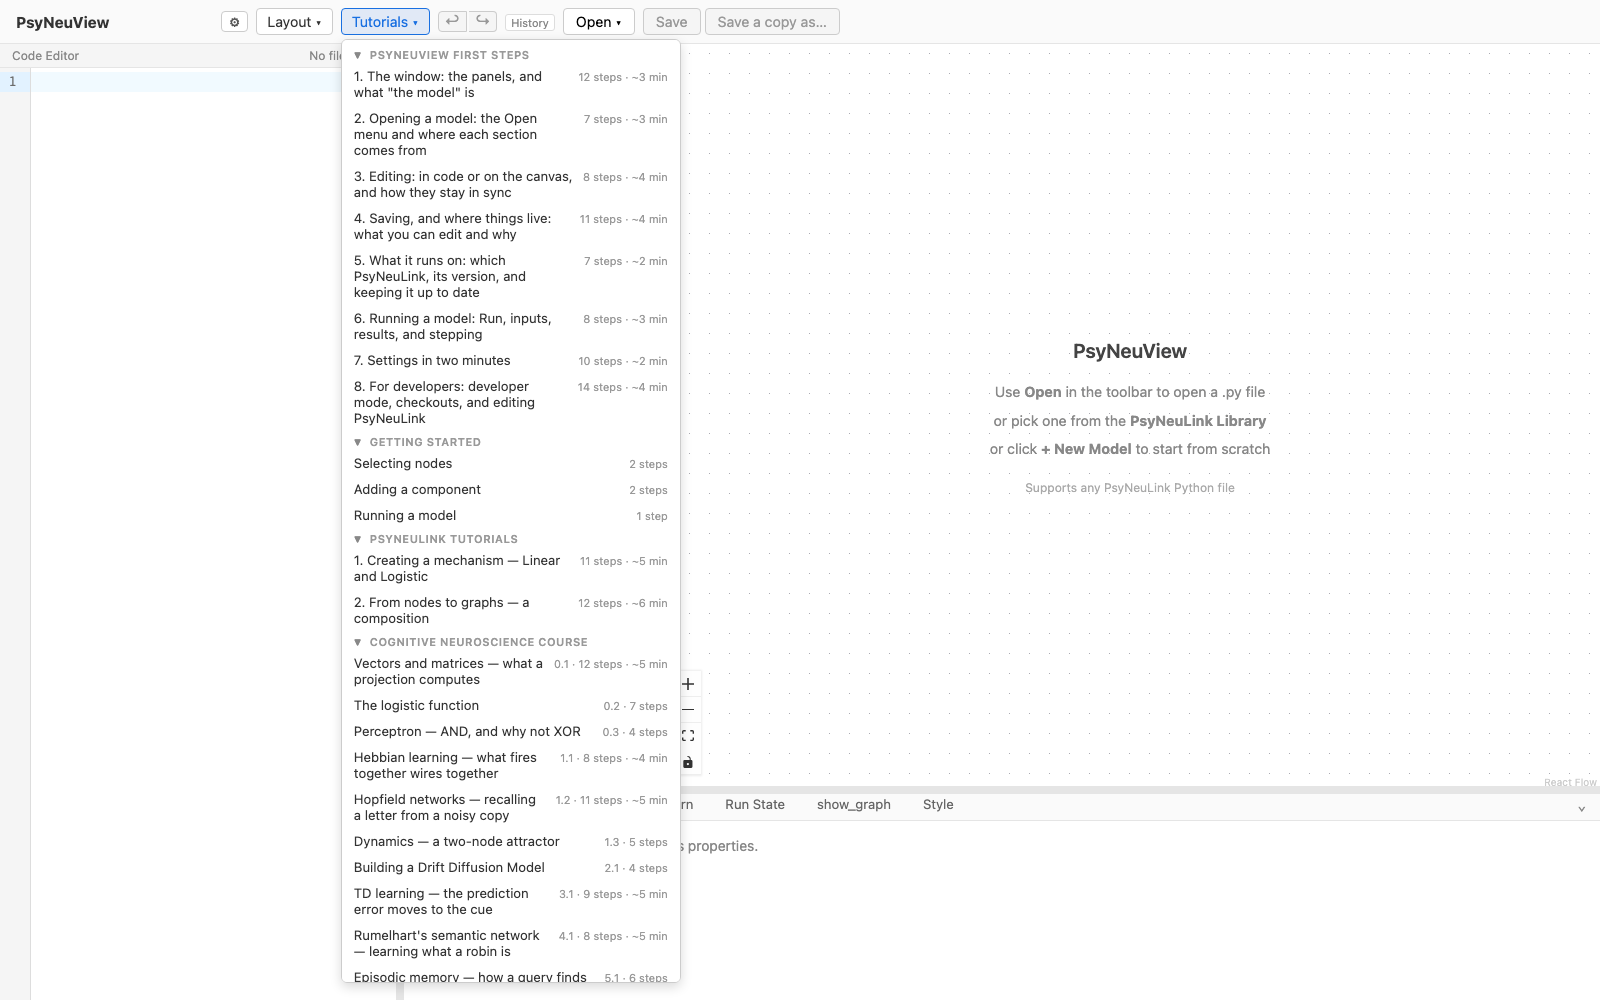
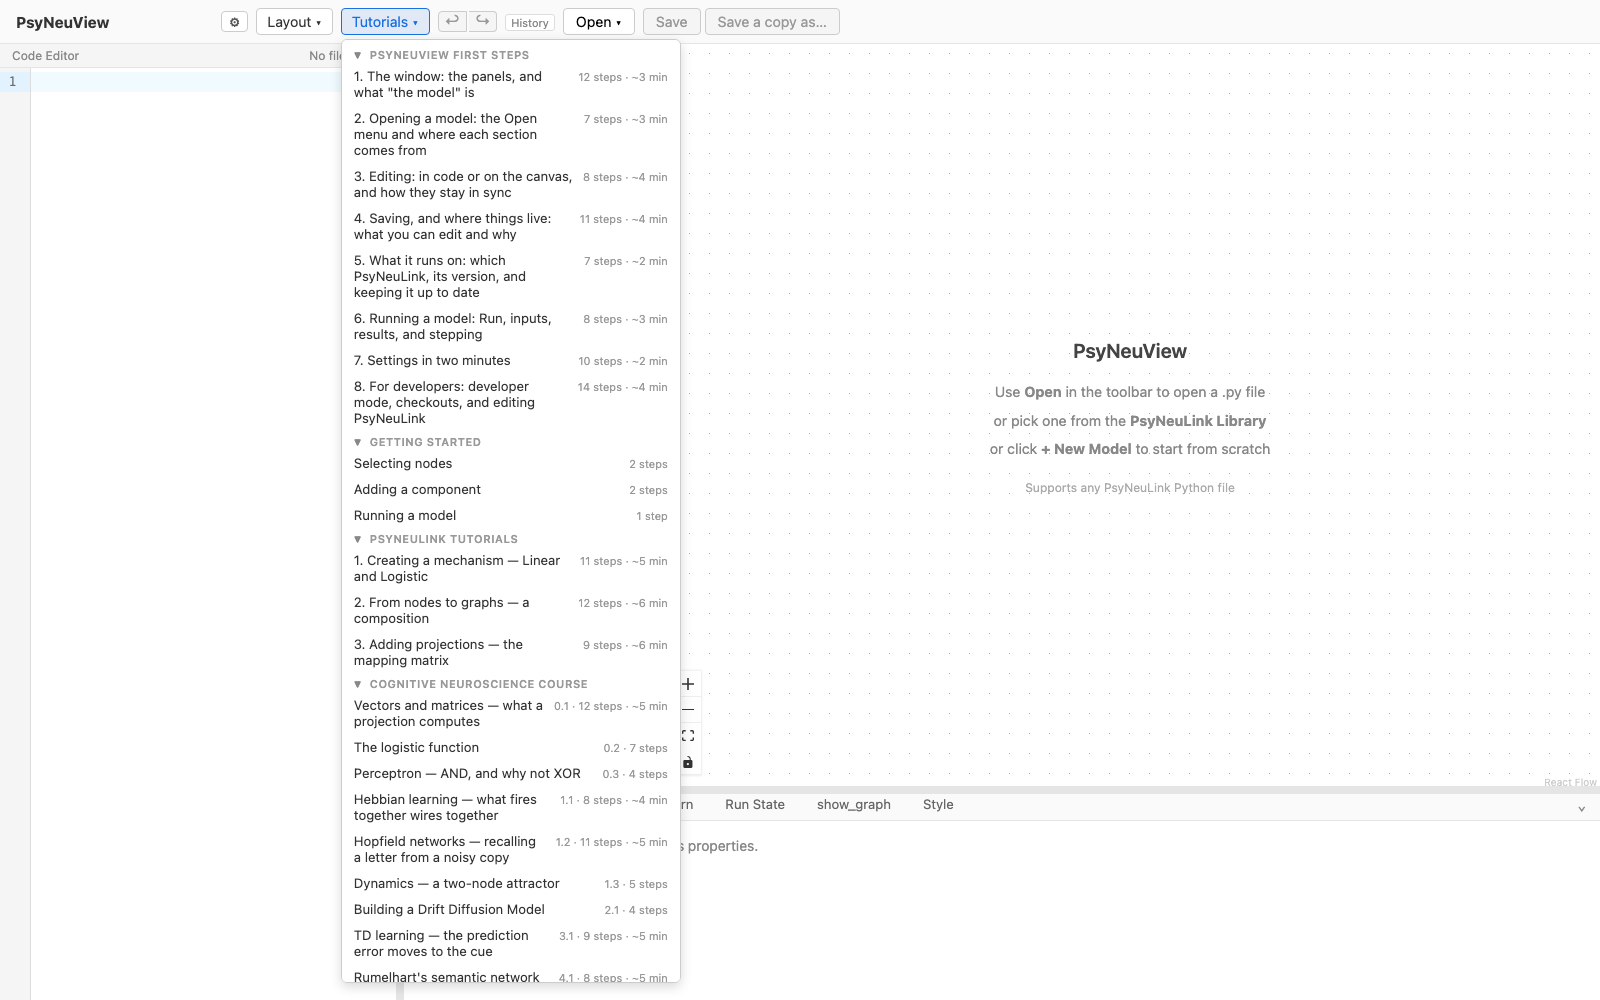
PsyNeuLink Tutorials, lesson 3: Adding projections — the mapping matrix (#9) (#142)
* Tutorials: lesson 3, Adding projections — the mapping matrix (#9)

The notebook's fourth section, built from New Model: input_node becomes
the notebook's Linear(slope=2, intercept=2) unit and output_node its
Logistic unit. Clicking the arrow shows the projection's matrix, [[1]],
the 1 by 1 identity the notebook's IDENTITY_MATRIX keyword means, and
the code is already the notebook's explicit MappingProjection with its
sender and receiver. A five-trial sweep from -3 to 3 gives 0.018, 0.269,
0.881, 0.993, 1.000 (the curve with its midpoint at -1, twice as steep).
The notebook keeps the matrix at 1, so to see the projection multiply
the lesson writes [[0.5]] under Projection Parameters (matrix= appears
in the code) and runs again: 0.119, 0.378, 0.731, 0.924, 0.982. All
measured in the app.

The last step says what stays in the notebook: the IDENTITY_MATRIX
keyword inside a pathway list, show_graph(), the 51-point plots, and the
units' names linear and logistic.

No new engine verbs: it uses paramEquals / setParameter on a projection
(#45), functionIs / setFunction, lastRunInputs and runsAtLeast.

Refs #9

* Tutorials e2e: drive the third PsyNeuLink lesson (#9)

Walks pnl-projections from its own YAML and asserts both sweeps on the
model's own results: through the identity matrix, 0.018, 0.2689, 0.8808,
0.9933, 0.99966; through the 0.5 matrix, 0.1192, 0.3775, 0.7311, 0.9241,
0.9820. Also checks that the matrix edit reached the source as
[…]

Changed region(s): [[0.2188, 0.62, 0.4375, 0.992], [0.375, 0.837, 0.4375, 0.899]]

diff --git a/frontend/e2e/tutorials/pnl-projections.tutorial.spec.ts b/frontend/e2e/tutorials/pnl-projections.tutorial.spec.ts
@@ -1,0 +1,96 @@
+/**
+ * PsyNeuLink Tutorials, lesson 3: Adding projections — the mapping matrix (#9).
+ *
+ * Driven from `src/walkthroughs/pnl-projections.yaml`, the file the app
+ * reads, so the walkthrough can't drift from the app. It builds from New
+ * Model: input_node becomes the notebook's Linear(slope=2, intercept=2) unit,
+ * output_node its Logistic unit, and the projection between them is looked
+ * at (the identity matrix, [[1]]), swept from -3 to 3, written as [[0.5]]
+ * under Projection Parameters, and swept again. This asserts every output
+ * the instructions quote, on the model's own run results, and that the
+ * matrix edit reached the code as the notebook's explicit `matrix=`.
+ *
+ * Also checks the Tutorials menu lists the lesson third under PsyNeuLink
+ * Tutorials.
+ */
+// mutatingTest: the walkthrough creates a model, so it needs a clean slate.
+import { mutatingTest as test, expect } from "../test-base";
+import { loadWalkthrough, runWalkthrough } from "../tourDriver";
+import { fileURLToPath } from "url";
+import path from "path";
+import { mkdirSync } from "fs";
+
+const ASSETS = path.resolve(
+  path.dirname(fileURLToPath(import.meta.url)),
+  "../../../docs/tutorials/assets/tour",
+);
+mkdirSync(ASSETS, { recursive: true });
+const shot = (name: string) => path.join(ASSETS, name);
+
+const lesson = loadWalkthrough("pnl-projections");
+
+test.use({ viewport: { width: 1600, height: 1000 } });
+
+test.describe(`PsyNeuLink Tutorials: ${lesson.title}`, () => {
+  test("is listed third under PsyNeuLink Tutorials", async ({ page }) => {
+    await page.goto("/");
+    await page.getByTestId("walkthrough-menu").click();
+    const section = page.getByTestId("walkthrough-menu-list").getByTestId("walkthrough-group-psyneulink");
+    await expect(section).toBeVisible();
+    const rows = await section
+      .locator('[data-testid^="walkthrough-pnl-"]')
+      .evaluateAll((els) => els.map((e) => e.textContent ?? ""));
+    expect(rows[2]).toContain(`3. ${lesson.title}`);
+  });
+
+  test("joins a Linear unit to a Logistic one, sweeps it, and writes the matrix", async ({ page }) => {
+    // Keep every run's outputs, one vector per trial: the canvas's value
+    // pill only shows while the trace sits on a trial, so it can't be read
+    // back after the walkthrough.
+    const runs: number[][][] = [];
+    // And the source after every Inspector edit, to see the matrix reach the
+    // code: the editor draws only the lines in view, so it can't be read whole.
+    let source = "";
+    page.on("response", async (r) => {
+      if (r.request().method() !== "POST" || !r.ok()) return;
+      if (r.url().includes("/api/model/run")) {
+        const body = (await r.json().catch(() => null)) as { results?: { output: number[][] }[] } | null;
+        if (body?.results) runs.push(body.results.map((t) => t.output.flat()));
+      } else if (r.url().includes("/api/model/update-param")) {
+        const body = (await r.json().catch(() => null)) as { source?: string } | null;
+        if (body?.source) source = body.source;
+      }
+    });
+    await page.goto("/?tour=pnl-projections");
+    // No model is opened: the first step creates one.
+    await runWalkthrough(page, lesson, async (_step, index) => {
+      await page.waitForTimeout(300);
+      await page.screenshot({ path: shot(`pnl-projections-step-${index + 1}.png`) });
+    });
+    await expect(page.getByTestId("tour-bar")).toHaveCount(0, { timeout: 10000 });
+
+    // The notebook's numbers, measured on the model's own output rather than
+    // trusted from the instructions: Logistic(2x + 2) through the identity,
+    // then Logistic(0.5 (2x + 2)) = Logistic(x + 1) once the matrix is 0.5.
+    expect(runs.length, "two runs").toBe(2);
+    const identity = runs[0].flat();
+    expect(identity.length, "five trials through the identity").toBe(5);
+    expect(identity[0], "Logistic of 2(-3) + 2 = -4").toBeCloseTo(0.018, 3);
+    expect(identity[1], "Logistic of 2(-1.5) + 2 = -1").toBeCloseTo(0.2689, 4);
+    expect(identity[2], "Logistic of 2(0) + 2 = 2").toBeCloseTo(0.8808, 4);
+    expect(identity[3], "Logistic of 2(1.5) + 2 = 5").toBeCloseTo(0.9933, 4);
+    expect(identity[4], "Logistic of 2(3) + 2 = 8").toBeCloseTo(0.99966, 5);
+    const halved = runs[1].flat();
+    expect(halved.length, "five trials through the halving matrix").toBe(5);
+    expect(halved[0], "Logistic of 0.5(-4) = -2").toBeCloseTo(0.1192, 4);
+    expect(halved[1], "Logistic of 0.5(-1) = -0.5").toBeCloseTo(0.3775, 4);
+    expect(halved[2], "Logistic of 0.5(2) = 1").toBeCloseTo(0.7311, 4);
+    expect(halved[3], "Logistic of 0.5(5) = 2.5").toBeCloseTo(0.9241, 4);
+    expect(halved[4], "Logistic of 0.5(8) = 4").toBeCloseTo(0.9820, 4);
+
+    // The matrix edit is the notebook's explicit MappingProjection: the code
+    // now names the matrix, where the starter left it to the identity default.
+    expect(source, "the matrix is written into the MappingProjection").toContain("matrix=[[0.5]]");
+    expect(source).toContain("sender=input_node");
+  });
+});

diff --git a/frontend/src/utils/tourStep.ts b/frontend/src/utils/tourStep.ts
@@ -31,6 +31,7 @@ import memoryYaml from "@/walkthroughs/memory.yaml?raw";
 import perceptronYaml from "@/walkthroughs/perceptron.yaml?raw";
 import pnlMechanismYaml from "@/walkthroughs/pnl-mechanism.yaml?raw";
 import pnlCompositionYaml from "@/walkthroughs/pnl-composition.yaml?raw";
+import pnlProjectionsYaml from "@/walkthroughs/pnl-projections.yaml?raw";
 import demoYaml from "@/walkthroughs/demo.yaml?raw";
 import runYaml from "@/walkthroughs/run.yaml?raw";
 import semanticYaml from "@/walkthroughs/semantic.yaml?raw";
@@ -549,6 +550,7 @@ export const WALKTHROUGHS: Record<string, Walkthrough> = {
   hopfield: parseWalkthrough(hopfieldYaml),
   "pnl-mechanism": parseWalkthrough(pnlMechanismYaml),
   "pnl-composition": parseWalkthrough(pnlCompositionYaml),
+  "pnl-projections": parseWalkthrough(pnlProjectionsYaml),
   "orientation-window": parseWalkthrough(orientationWindowYaml),
   "orientation-open": parseWalkthrough(orientationOpenYaml),
   "orientation-editing": parseWalkthrough(orientationEditingYaml),

diff --git a/frontend/src/utils/tourStep.test.ts b/frontend/src/utils/tourStep.test.ts
@@ -406,6 +406,7 @@ describe("menuGroups", () => {
     expect(lessons.map((l) => [l.id, l.psyneulink])).toEqual([
       ["pnl-mechanism", 1],
       ["pnl-composition", 2],
+      ["pnl-projections", 3],
     ]);
     for (const l of lessons) {
       expect(l.docs?.length, `"${l.id}" cites no docs page`).toBeGreaterThan(0);

diff --git a/docs/tutorials/17-psyneulink-tutorials.md b/docs/tutorials/17-psyneulink-tutorials.md
@@ -35,7 +35,7 @@ rows with a `?tour=` are built.
 | --- | --- | --- | --- | --- |
 | 1 | Creating a mechanism — Linear and Logistic | Tutorial: *Creating a mechanism*, *Logistic Function* | `pnl-mechanism` | **Build** from New Model, **run** the notebook's inputs, **edit** slope and intercept, switch the function to Logistic |
 | 2 | From nodes to graphs — a composition | Tutorial: *From Nodes to Graphs: Compositions* | `pnl-composition` | **Build** from New Model, select the projection, **run** 4 and a five-trial sweep, give both nodes **two units**, make it Logistic, run x and 3x, and the step mechanism |
-| 3 | Adding projections | Tutorial: *Adding Projections* | | A Linear unit into a Logistic one; the identity matrix; an explicit `MappingProjection` with its matrix |
+| 3 | Adding projections — the mapping matrix | Tutorial: *Adding Projections* | `pnl-projections` | **Build** from New Model: a Linear unit (slope 2, intercept 2) into a Logistic one; click the arrow for the **identity matrix**; **run** the sweep; write **0.5** into the matrix (the explicit `MappingProjection`) and run again |
 | 4 | The mini Stroop model | Tutorial: *Compositions*, *Mini-Stroop Model* | | Two inputs (colours, words) converging on a Logistic response; a congruent and an incongruent trial |
 | 5 | The pre-trained Stroop model | Tutorial: *Pre-trained Complete Stroop Model* | | The Cohen et al. (1990) network with its weights written in; task demand; the eight input combinations |
 | 6 | Constructing compositions | Tutorial: *Constructing Compositions* | | Lines of two and three layers, a recurrent pathway, several hidden layers, and what each graph looks like |
@@ -48,7 +48,7 @@ rows with a `?tour=` are built.
 | 13 | Learning | Primer: *Learning*, *LearningMechanisms* | | A learning pathway and backpropagation |
 | 14 | Customization | Primer: *Customization* | | A user-defined function |
 
-Lessons 3–14 are listed so the order is settled; they are not built yet. The
+Lessons 4–14 are listed so the order is settled; they are not built yet. The
 notebook's own ending, *Constructing Compositions*, says "more content is
 being added weekly", so the list may grow with it.
 
@@ -133,6 +133,46 @@ sets it.
 
 ---
 
+### 3. Adding projections — the mapping matrix
+
+Notebook cells 28–33. Validated against PsyNeuLink 0.20.2.0.
+
+The notebook joins a `Linear(slope=2, intercept=2)` unit to a `Logistic()`
+one, first with the `IDENTITY_MATRIX` keyword in the pathway list and then
+with an explicit `MappingProjection(sender=…, receiver=…, matrix=[[1]])`, and
+sweeps each from −3 to 3: a projection takes one mechanism's output,
+multiplies it by its matrix, and delivers the result to the next. The
+walkthrough starts a **new model**, `adding_projections`, and makes the
+starter's two nodes the notebook's units: set `input_node`'s **slope** to
+**2** and **intercept** to **2**, and change `output_node`'s function to
+**Logistic**. Click the arrow: under **Projection Parameters** the matrix is
+**[[1]]**, the 1 × 1 identity the keyword means, and in the code the
+projection is already the notebook's explicit form, a `MappingProjection`
+with its sender and receiver; the identity is its default, so no matrix is
+written.
+
+Then the sweep, in the **Run** tab: five trials, **−3, −1.5, 0, 1.5, 3**,
+give **0.018, 0.269, 0.881, 0.993, 1.000**, the Logistic curve with its
+midpoint at −1 (where 2x + 2 = 0) and twice as steep. The notebook keeps the
+matrix at 1, so its two compositions draw the same curve; to see the matrix
+do something, the walkthrough writes **[[0.5]]** into the matrix row, which
+puts `matrix=[[0.5]]` into the code (the notebook's explicit matrix), and
+runs the same five trials again: **0.119, 0.378, 0.731, 0.924, 0.982**, the
+midpoint still at −1 and the curve half as steep. The tutorial spec asserts
+both runs and that `matrix=[[0.5]]` reached the source.
+
+![The projection selected: under Projection Parameters its matrix is [[1]], the identity](assets/tour/pnl-projections-step-6.png)
+
+**What stays in the notebook.** The `IDENTITY_MATRIX` keyword inside a
+pathway list, which makes the projection for you; here the projection is
+always written out, the notebook's explicit way, with the identity as its
+default. `show_graph()` is the canvas; the 51-point sweeps are five trials
+with no curve drawn; and the notebook's names for its units, `linear` and
+`logistic`, stay there, since the walkthrough does not rename the starter's
+nodes.
+
+---
+
 ## What you can expect
 
 - [x] **Tutorials ▾** has a **PsyNeuLink Tutorials** section, folded on first
@@ -145,8 +185,12 @@ sets it.
       it gives both nodes two units through the Inspector's Inputs row and
       asserts the four runs (4; the sweep; 0.269/0.047 and 0.731/0.953; the
       step's 0.00005/0.99995).
+- [x] Lesson 3 is built the same way (`pnl-projections.tutorial.spec.ts`):
+      it edits a projection's matrix under Projection Parameters and asserts
+      both sweeps (0.018 … 1.000 through the identity; 0.119 … 0.982 through
+      0.5) and the `matrix=[[0.5]]` written into the code.
 - [x] Every step has a caption for narration.
-- [ ] **Not yet:** lessons 3–14. Each will be added in order, as a walkthrough
+- [ ] **Not yet:** lessons 4–14. Each will be added in order, as a walkthrough
       with a bundled demo where the model is too big to build by hand.
 
 ## Further reading
@@ -157,4 +201,5 @@ sets it.
 - [Writing a guided walkthrough](../guided-walkthroughs.md), for adding a lesson.
 - PsyNeuLink: [Basics and Primer](https://princetonuniversity.github.io/PsyNeuLink/BasicsAndPrimer.html),
   [`TransferMechanism`](https://princetonuniversity.github.io/PsyNeuLink/TransferMechanism.html),
-  [`Logistic`](https://princetonuniversity.github.io/PsyNeuLink/TransferFunctions.html).
+  [`Logistic`](https://princetonuniversity.github.io/PsyNeuLink/TransferFunctions.html),
+  [`MappingProjection`](https://princetonuniversity.github.io/PsyNeuLink/MappingProjection.html).
